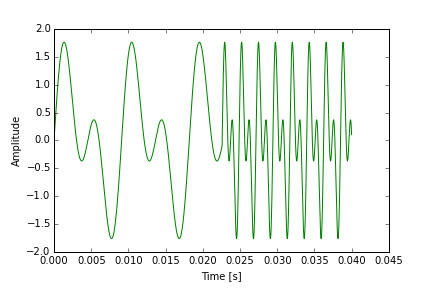
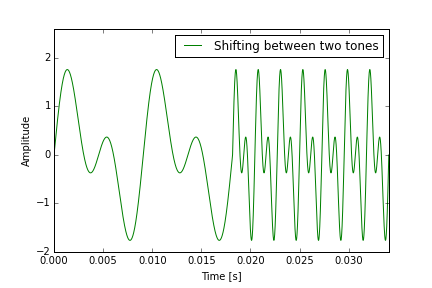
Wavelet + figurer

diff --git a/Rapport/sections/mainmatter/chapter_12/wavelet.tex b/Rapport/sections/mainmatter/chapter_12/wavelet.tex
@@ -1,0 +1,54 @@
+\section{Definition of wavelets}
+Wavelet theory provides a way of constructing orthonormal bases in $\mathcal{L}^2(\mathbb{R})$, which is a concrete Hilbert space consisting of functions. These functions must be scaled and translated versions of a fixed function. For an orthonormal basis $\{\textbf{e}_k\}$ for $\mathcal{L}^2(\mathbb{R})$ then all functions $f \in \mathcal{L}^2(\mathbb{R})$ have an expansion
+\begin{align*}
+f = \sum_{k\in\mathbb{Z}}^N c_k \textbf{e}_k
+\end{align*}
+
+for suitable coefficients $c_k$. The index set of the sum is generally infinite but in order for the representation to be of practical use the functions $f$ must be able to be approximated well by finite partial sums.
+
+\begin{definition}[Wavelet]
+Let $\psi \in \mathcal{L}^2(\mathbb{R})$.
+\begin{enumerate}
+\item For $j,k \in \mathbb{Z}$, define the function $\psi_{j,k}$ by
+\begin{align*}
+\psi_{j,k}(x) = 2^{j/2} \psi(2^jx-k), \quad x \in \mathbb{R}.
+\end{align*}
+\item The function $\psi$ is called a wavelet if the functions $\{\psi_{j,k}\}_{j,k\in\mathbb{Z}}$ form an orthonormal basis for $\mathcal{L}^2(\mathbb{R})$.
+\end{enumerate}
+\end{definition}
+
+Therefore, $\psi_{j,k}$ is a dilation and translation \martin{Vildt forslag: udbyg kapitel 5 til et kapitel med det matematiske fundament, som indeholder begreber såsom Banach-rum, Hilbert-rum, definitioner af kravene for disse samt definitioner af disse lineære operatorer (translationen $T_a$, modulationen $E_b$ og udvidelsen $D_c$ defineret på side 120). \textregistered}. A simple wavelet is the Haar wavelet.
+
+\begin{definition}[Haar Wavelet] \label{HaarWave}
+The \textit{Haar function} is defined by
+\begin{align*}
+\psi(x) =
+\begin{cases}
+1 \quad &\textnormal{if } 0 \leq x < \frac{1}{2} \\
+-1 \quad &\textnormal{if } \frac{1}{2} \leq x  < 1 \\
+0 \quad &\textnormal{otherwise}
+\end{cases}
+\end{align*}
+\end{definition}
+
+The proof that the functions $\{\psi_{j,k}\}_{j,k\in\mathbb{Z}}$ constitute an orthonormal basis for $\mathcal{L}^2$ is quite technical and will therefore be skipped as the purpose of this chapter is merely an appliance of the wavelet analysis \cite{page 161, FSE2010} \martin{Overvej dette. \textregistered}.
+
+The following definition is the background for a main theorem of this section \cite{page 170, FSE2010}.
+
+\begin{definition}[Vanishing moments]
+Let $N \in \mathbb{N}$. A function $\psi$ has $N$ vanishing moments if
+\begin{align*}
+\int_{-\infty}^\infty x^\ell \psi(x) dx = 0 \quad for \quad \ell = 0, 1, \dots, N-1.
+\end{align*}
+\end{definition}
+
+The Haar wavelet defined in definition \ref{HaarWave} has only one vanishing moment. If $\psi$ has a large number of vanishing moments, the following result shows that only relatively few coefficients $\langle f, \psi_{j,k} \rangle$ will be large and therefore only a small number of wavelets are needed in the expansion \martin{Vi skal definere hvad der menes med kompakt støtte. \textregistered}.
+
+\begin{theorem}[Decay of wavelet coefficients]
+Assume that the function $\psi \in \mathcal{L}^2(\mathbb{R})$ is compactly supported and has $N$ vanishing moments. Then, for any $N$ times differentiable function $f \in \mathcal{L}^2(\mathbb{R})$ for which the $N$th derivative $f^{(N)}$ is bounded, there exists a constant $C > 0$ such that
+\begin{align} \label{eq:decay_wave_coeff}
+|\langle f, \psi_{j,k} \rangle| \leq C 2^{-jN} 2^{-j/2}, \quad \forall \ j \geq 1, \quad k \in \mathbb{Z}.
+\end{align}
+\end{theorem}
+
+\eqref{eq:decay_wave_coeff} suggests that a high number of vanishing moments $N$ implies that the numbers $\langle f, \psi_{j,k} \rangle$ decay quickly as $j \to \infty$. Therefore, the higher the number of vanishing moments a wavelet has, the fewer coefficients $\{ \langle f, \psi_{j,k} \rangle \}_{j\in\mathbb{N},k\in\mathbb{Z}}$ are needed in the expansion.

diff --git a/Python/Figure_script/Sine_section6.4.py b/Python/Figure_script/Sine_section6.4.py
@@ -1,0 +1,83 @@
+# -*- coding: utf-8 -*-
+"""
+Created on Tue Mar 28 15:23:37 2017
+
+@author: Martin Kamp Dalgaard
+"""
+
+import matplotlib.pyplot as plt
+import numpy as np
+
+def sin(x):
+    return np.sin(x)
+
+pi = np.pi
+
+# First signal
+Fs1 = 5000.0  # sampling rate
+Ts1 = 1.0/Fs1 # sampling interval
+t1 = np.arange(0,1,Ts1) # time vector
+
+freq1 = 110   # frequency of the signal
+y1 = sin(2*pi*freq1*t1) + sin(2*pi*2*freq1*t1)
+
+n1 = len(y1) # length of the signal
+k1 = np.arange(n1)
+T1 = n1/Fs1
+frq1 = k1/T1 # two sides frequency range
+frq1 = frq1[range(n1/2)] # one side frequency range
+
+Y1 = np.fft.fft(y1)/n1 # fft computing and normalization
+Y1 = Y1[range(n1/2)]
+
+# Second signal
+Fs2 = 2000.0  # sampling rate
+Ts2 = 1.0/Fs2 # sampling interval
+t2 = np.arange(0,1,Ts2) # time vector
+
+freq2 = 440 # frequency of the signal
+y2 = sin(2*pi*freq2*t2) + sin(2*pi*2*freq2*t2)
+
+n2 = len(y2) # length of the signal
+k2 = np.arange(n2)
+T2 = n2/Fs2
+frq2 = k2/T2 # two sides frequency range
+frq2 = frq2[range(n2/2)] # one side frequency range
+
+Y2 = np.fft.fft(y2)/n2 # fft computing and normalization
+Y2 = Y2[range(n2/2)]
+
+# Signals shifting in time
+range1 = 2.0*3/(freq1+2*freq1) # 2 periods of the first sine wave
+range2 = 7.0*3/(freq2+2*freq2) # 7 periods of the second sine wave
+t_sum = np.linspace(0.0, range1 + range2, 10000)
+y_sum = np.zeros(len(t_sum))
+
+for i in range(len(t_sum)):
+    if t_sum[i] <= range1:
+        y_sum[i] = sin(freq1*2*pi*t_sum[i]) + sin(2*freq1*2*pi*t_sum[i])
+    else:
+        y_sum[i] = sin(freq2*2*pi*t_sum[i]) + sin(2*freq2*2*pi*t_sum[i])
+
+# Graphs
+
+# Figure 6.3(a):
+plt.figure(1)
+plt.plot(t_sum, y_sum, "g-", label = "Shifting between two tones")
+plt.xlabel("Time [s]")
+plt.ylabel("Amplitude")
+plt.axis([0,t_sum[-1],-2.0,2.6])
+plt.legend(loc = "upper right")
+
+# Figure 6.3(b):
+plt.figure(2)
+fig, ax = plt.subplots(2, 1)
+ax[0].plot(frq1,abs(Y1), "b-", label = "Frequency spectrum of the first tone")
+ax[0].axis([80,250,0,0.8])
+ax[0].legend(loc = "upper left")
+ax[0].set_ylabel("Amplitude")
+ax[1].plot(frq2,abs(Y2),"r-", label = "Frequency spectrum of the second tone")
+ax[1].axis([320,1000,0,0.8])
+ax[1].legend(loc = "upper left")
+ax[1].set_xlabel("Frequency [Hz]")
+ax[1].set_ylabel("Amplitude")

diff --git a/Python/Figure_script/Sine_section2.1.py b/Python/Figure_script/Sine_section2.1.py
@@ -1,0 +1,45 @@
+# -*- coding: utf-8 -*-
+"""
+Created on Tue Feb 14 13:59:42 2017
+
+@author: Martin Kamp Dalgaard
+"""
+
+import numpy as np
+import matplotlib.pyplot as plt
+
+freq1 = 440
+freq2 = 880
+
+periods1 = 4
+range1 = 4/440.
+
+x = np.linspace(0.0, range1, 10000)
+y_1 = np.zeros(len(x))
+y_2 = np.zeros(len(x))
+y_sum = np.zeros(len(x))
+
+def sine(x):
+    return np.sin(x)
+
+pi = np.pi
+
+for i in range(len(x)):
+    y_1[i] = sine(freq1*2*pi*x[i])
+    y_2[i] = sine(freq2*2*pi*x[i])
+    y_sum[i] = sine(freq1*2*pi*x[i]) + sine(freq2*2*pi*x[i])
+
+# Figure 2.2(a):
+plt.figure(1)
+plt.plot(x, y_1, "b-", label = r'$y_f(t) = \ \sin(880\pi\cdot t)$')
+plt.plot(x, y_2, "r-", label = r'$y_h(t) = \ \sin(1760\pi\cdot t)$')
+plt.xlabel("Time [s]")
+plt.ylabel("Amplitude")
+plt.legend(loc = "upper right")
+
+# Figure 2.2(b):
+plt.figure(2)
+plt.plot(x,y_sum, "g-", label = r'$y(t) = \ \sin(880\pi\cdot t) + \sin(1760\pi\cdot t)$')
+plt.xlabel("Time [s]")
+plt.ylabel("Amplitude")
+plt.legend(loc = "upper right")

diff --git a/Rapport/sections/mainmatter/chapter12.tex b/Rapport/sections/mainmatter/chapter12.tex
@@ -1,0 +1,4 @@
+\chapter{Wavelet Analysis}
+The purpose of this chapter is merely to introduce the concept of wavelet analysis in order to apply it as an alternative to the Fourier transform described and applied in the former chapters. The chapter is inspired by \cite{page 159-?, FSE2010} \martin{Overvej dette. \textregistered}.
+
+\input{sections/mainmatter/chapter_12/wavelet.tex}

diff --git a/Rapport/master.tex b/Rapport/master.tex
@@ -66,6 +66,8 @@
 \cleardoublepage
 \input{sections/mainmatter/chapter10.tex}
 \cleardoublepage
+\input{sections/mainmatter/chapter12.tex}
+\cleardoublepage
 
 \printbibliography[heading=bibintoc]
 \label{bib:mybiblio}
